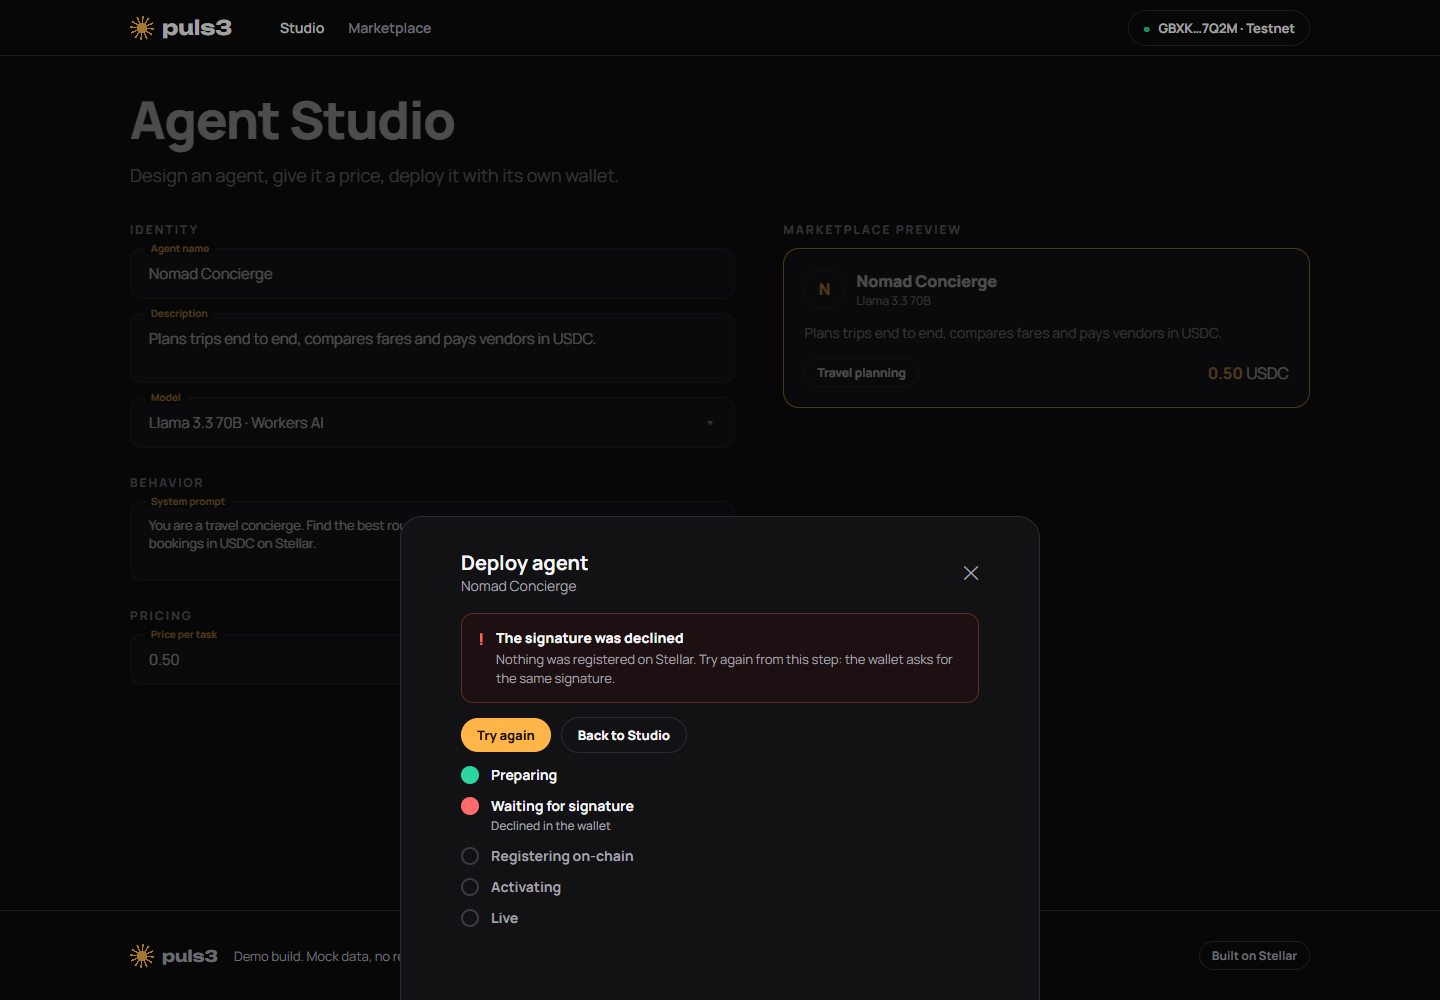
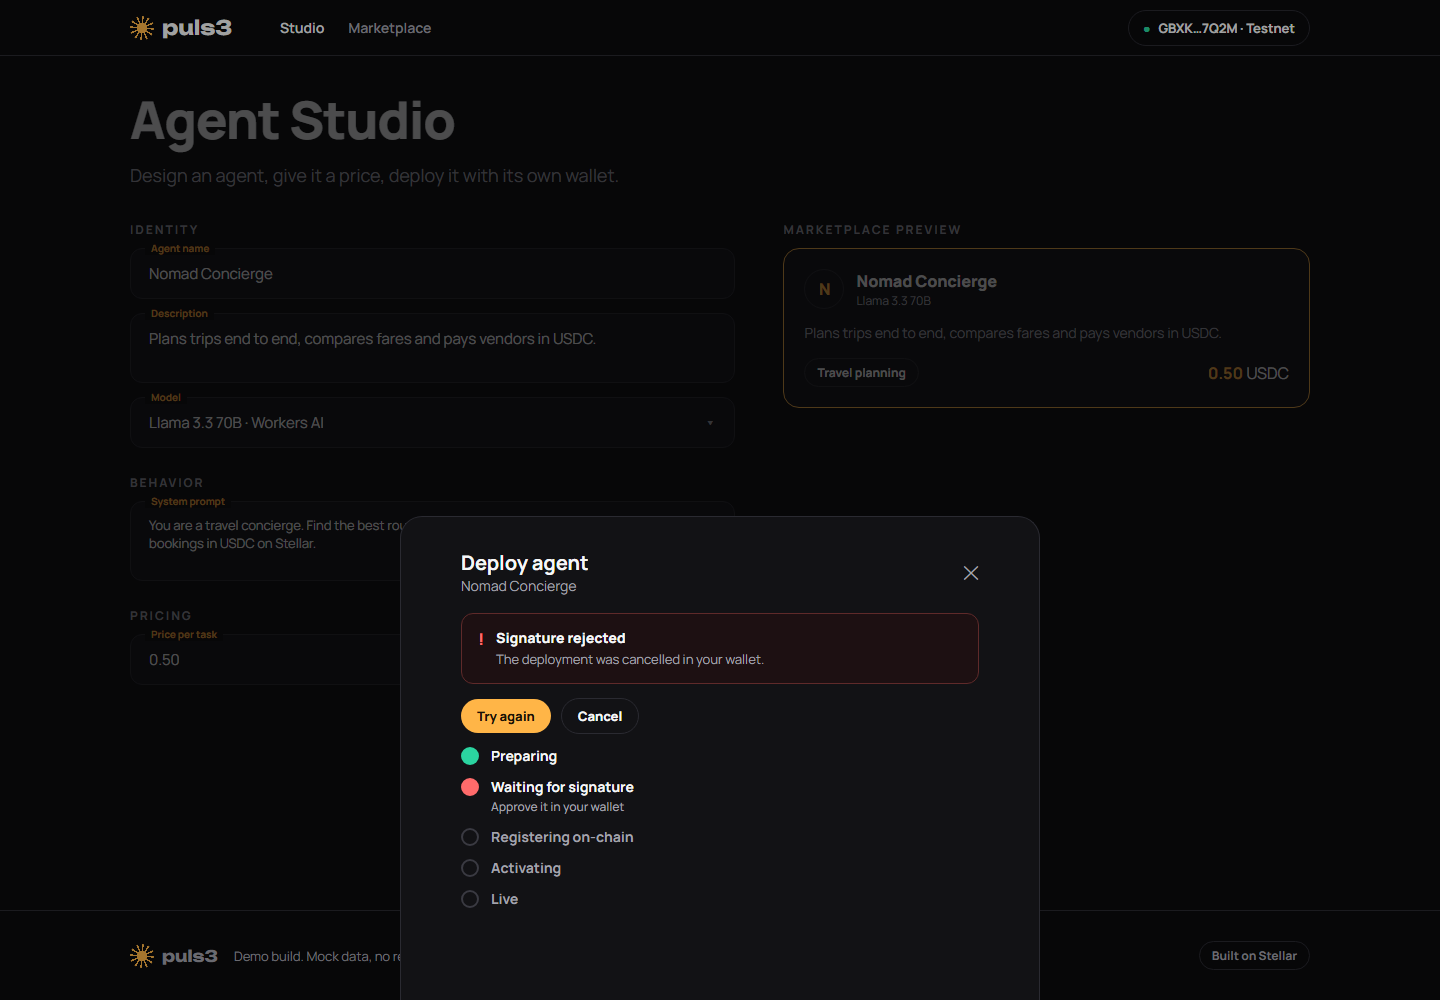
docs(blueprints): S08 deploy error wireframes use the app's signature-rejected copy (#36) (#178)
The S08 error wireframes (#163) said "The signature was declined", "Nothing
was registered on Stellar…", "Declined in the wallet" and "Back to
Studio". The deploy sheet shows the DeployErrorKind.signatureRejected copy
from deploy_copy.dart instead: "Signature rejected" / "The deployment was
cancelled in your wallet.", the failed step's own description ("Approve it
in your wallet"), and Try again / Cancel (deploy_error_panel.dart).

Both images (1440 and 390) are rendered again with the same wireframe
tool and fonts. The S08 Error row in screens.md now names Cancel and the
declined-signature copy.

Refs #36

Changed region(s): [[0.3125, 0.62, 0.6562, 0.93]]

diff --git a/docs/blueprints/screens.md b/docs/blueprints/screens.md
@@ -166,7 +166,7 @@ Every screen sits in the app shell: the top bar (logo, wallet chip) and, on phon
 |---|---|---|
 | Loading | The stepper with the active step and its explanation; the sheet can be closed while the wallet prompt is open. | [1440](wireframes/S08-deploy-sheet-1440.png) · [390](wireframes/S08-deploy-sheet-390.png) |
 | Empty | Not applicable: the sheet opens only with a valid manifest. | — |
-| Error | The failed step with the reason and a recovery action: **Try again** from that step, **Prepare again** after an expiry, **Use current account** after an account switch. | [1440](wireframes/S08-deploy-sheet-error-1440.png) · [390](wireframes/S08-deploy-sheet-error-390.png) |
+| Error | The failed step with the reason and a recovery action: **Try again** from that step, **Prepare again** after an expiry, **Use current account** after an account switch. **Cancel** closes the sheet. A declined signature reads "Signature rejected" / "The deployment was cancelled in your wallet." | [1440](wireframes/S08-deploy-sheet-error-1440.png) · [390](wireframes/S08-deploy-sheet-error-390.png) |
 | Success | "Agent deployed" with `Agent.id`, the transaction and **View on explorer**, **Open agent** (→ S03). A demo backend says "Demo deploy only" and links nothing. | [1440](wireframes/S08-deploy-sheet-success-1440.png) · [390](wireframes/S08-deploy-sheet-success-390.png) |
 
 **Actions:** **Open agent** → S03. **Back to Studio** → S07.
